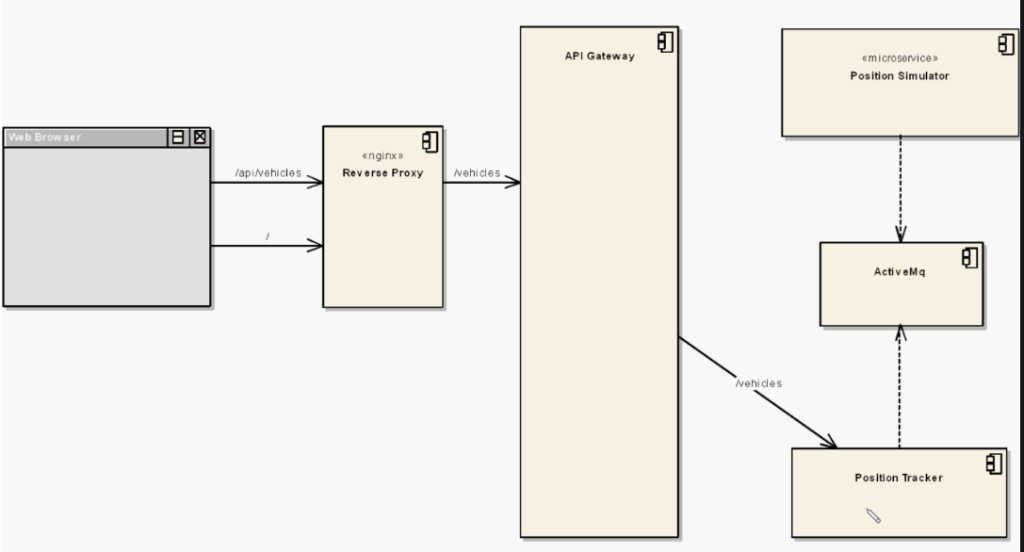
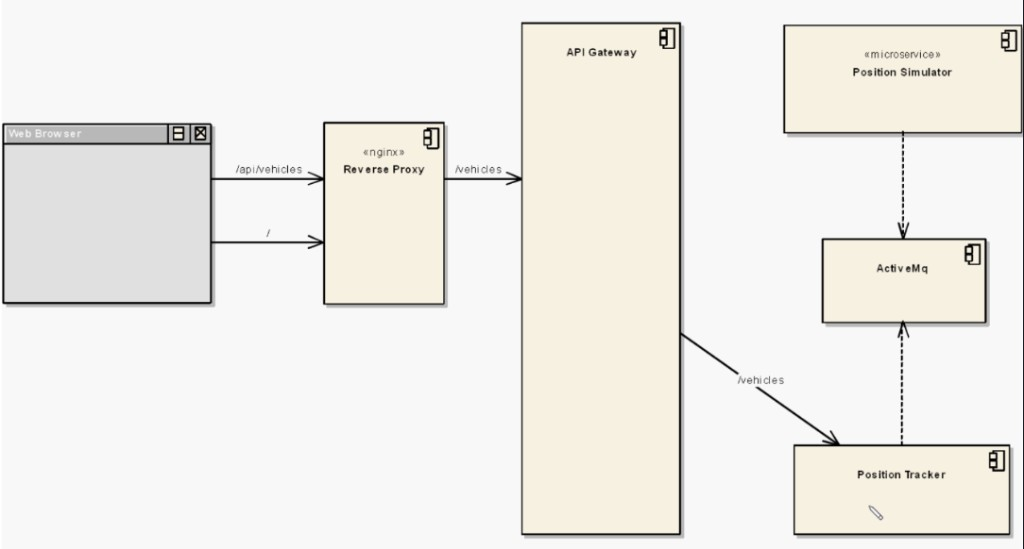
updated readme

diff --git a/README.md b/README.md
@@ -25,12 +25,6 @@ Position Simulator  ──>  Queue (ActiveMQ)  ──>  Position Tracker  ──
                           API Gateway  ──>  Webapp (browser map)
 ```
 
-1. The Position Simulator pretends to be the moving vehicles and keeps sending their positions to a queue.
-2. The Queue (ActiveMQ) holds those position messages so services stay decoupled.
-3. The Position Tracker reads messages off the queue, calculates speed, stores history in MongoDB, and exposes a REST API.
-4. The API Gateway is the single entry point the frontend talks to; it forwards requests to the right backend service.
-5. The Webapp (Angular) shows the vehicles moving live on a map, with a list and route history.
-
 #### The 5 Microservices
 
 | Service | Tech |
@@ -40,6 +34,12 @@ Position Simulator  ──>  Queue (ActiveMQ)  ──>  Position Tracker  ──
 | **Position Tracker** | Spring Boot + MongoDB |
 | **API Gateway** | Spring Boot + Feign + Hystrix |
 | **Webapp** | Angular 6 + Leaflet + nginx |
+
+1. The Position Simulator pretends to be the moving vehicles and keeps sending their positions to a queue.
+2. The Queue (ActiveMQ) holds those position messages so services stay decoupled.
+3. The Position Tracker reads messages off the queue, calculates speed, stores history in MongoDB, and exposes a REST API.
+4. The API Gateway is the single entry point the frontend talks to; it forwards requests to the right backend service.
+5. The Webapp (Angular) shows the vehicles moving live on a map, with a list and route history.
 
 ---
 